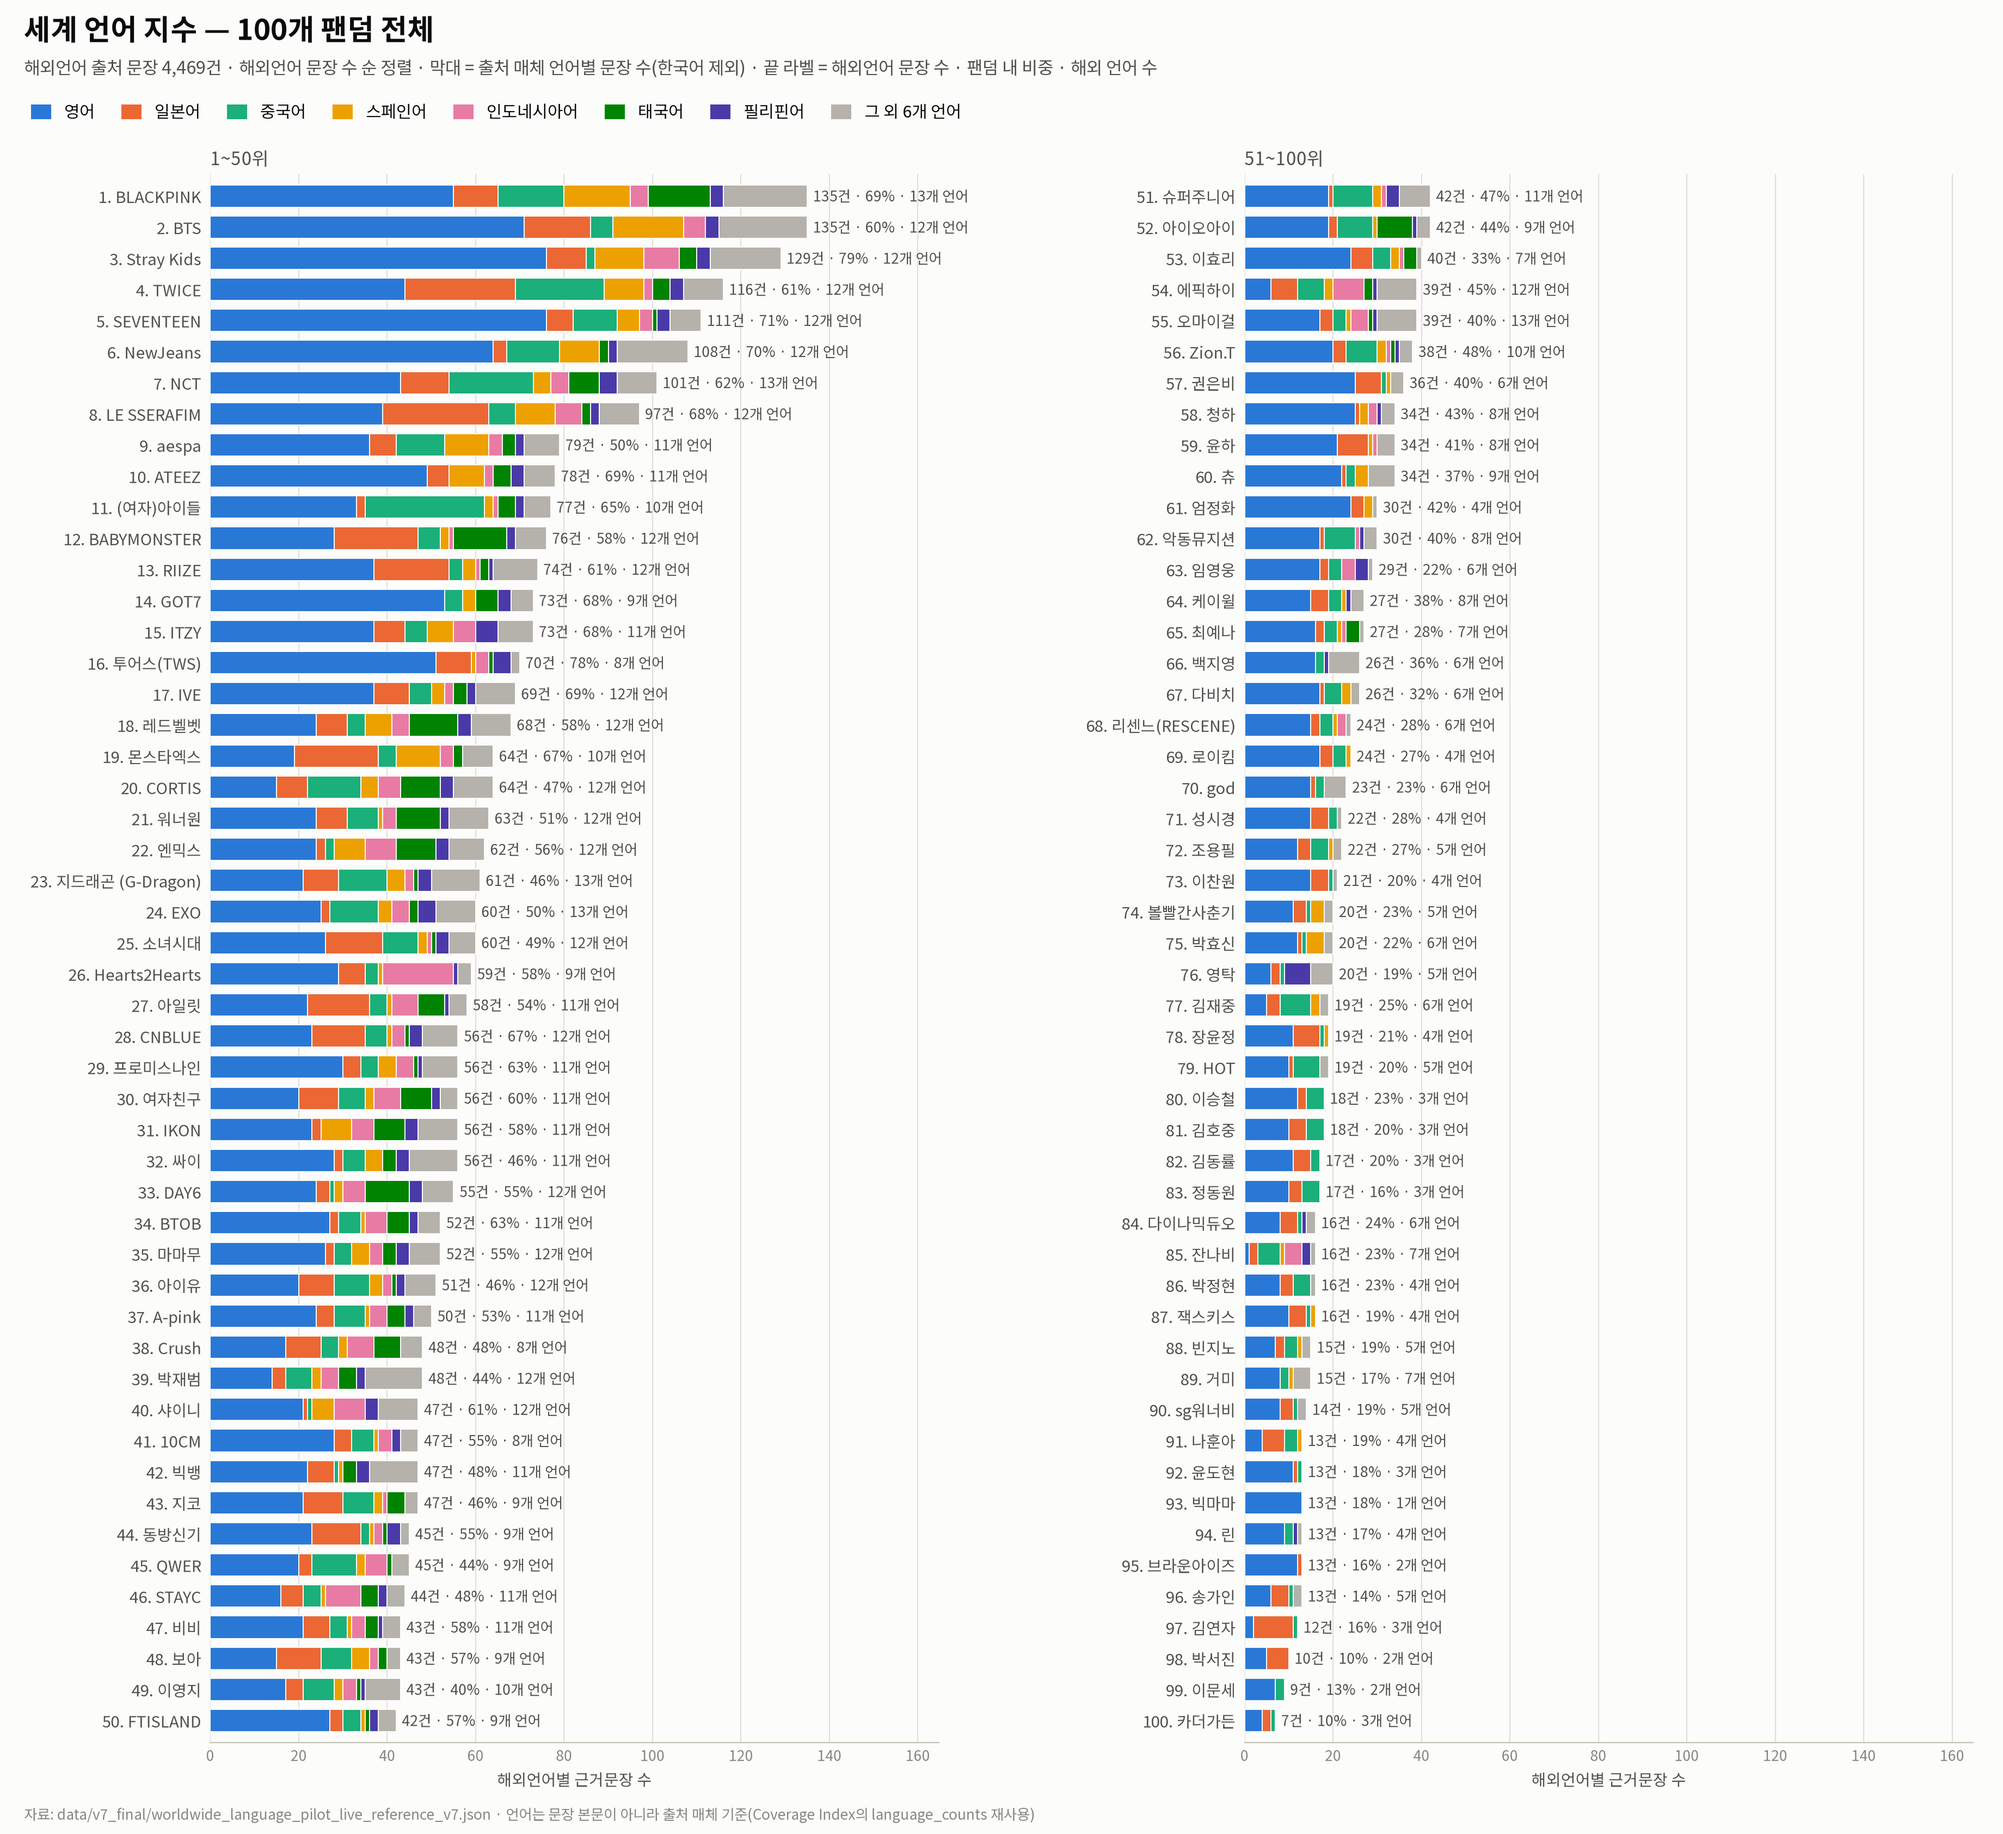
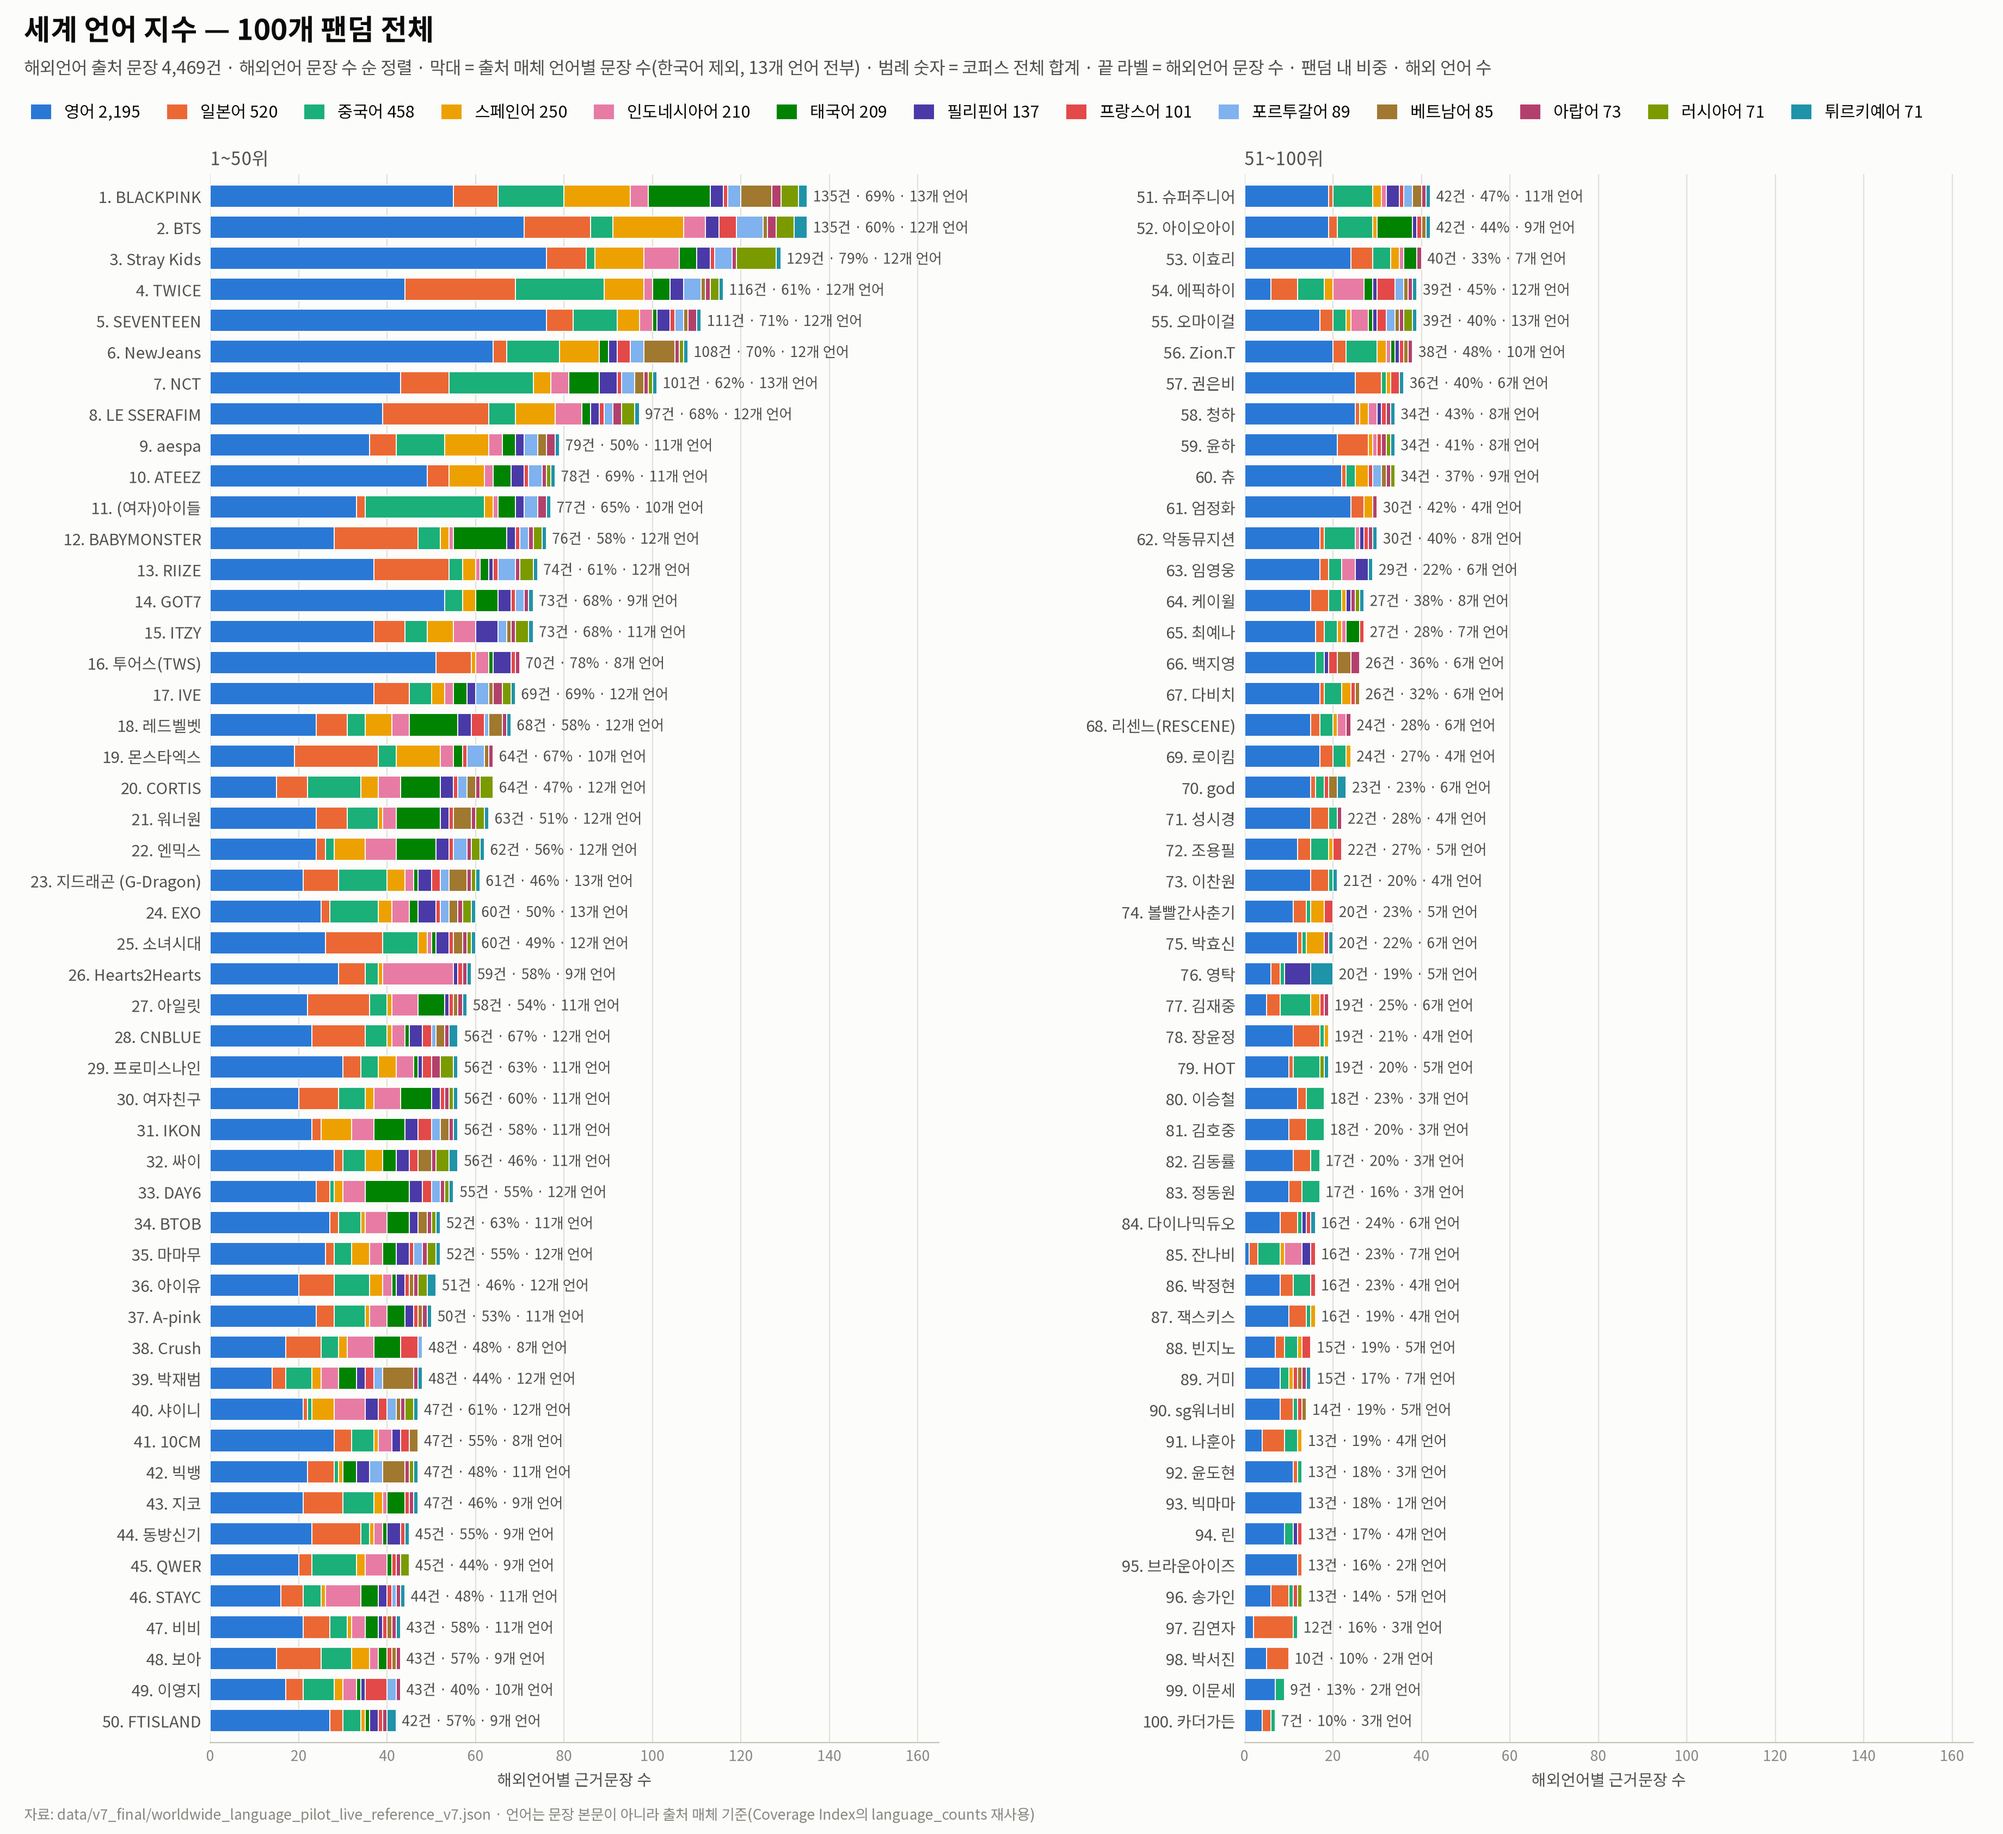
세계 언어 지수 100개 팬덤 그래프: 해외언어 13개 전부 개별 색·라벨로 표시(그룹화 없음)
범주형 8색 + 추가 5색을 인접쌍 색각이상·명도 검증을 통과하는 순서로 배치, 범례에 언어별 코퍼스 합계 표기.

Claude-Session: https://claude.ai/code/session_01VWuqhk8UFpTen2BecLssSX

diff --git a/v7_final_10020/charts/build_aux_indices_100_v7.py b/v7_final_10020/charts/build_aux_indices_100_v7.py
@@ -8,7 +8,7 @@ README 6절의 그림은 상위 20·25개만 보여 주므로, 같은 지표를 
   aux4_media_crossover_100.png      매체 크로스오버 지수 — 서로 다른 뉴스 매체 수
   aux5_domestic_regional_100.png    국내 지역 지수 — 17개 시/도 전부(권역별 색 계열) 누적 막대
   aux6_member_mci_45.png            멤버 집중도(MCI) — 45개 그룹, 구조적 하한 1/멤버수 표시
-  aux7_worldwide_language_100.png   세계 언어 지수 — 해외언어 구성(상위 7개 언어 + 그 외) 누적 막대
+  aux7_worldwide_language_100.png   세계 언어 지수 — 해외언어 13개 전부 누적 막대
 
 색: 범주형 7색(고정 순서, 명도·색각이상 검증 통과) + '그 외'는 중립 회색. 팬덤 100개는 1~50위 / 51~100위 두 패널로 나누고 x축 범위를 공유한다.
 한글 폰트: KFONT_PATH(본문)·KFONT_BOLD_PATH(제목) 환경변수 → 없으면 시스템 후보(Noto Sans KR/CJK, 맑은 고딕, 나눔고딕 등).
@@ -298,17 +298,17 @@ for v in ww.values():
     for k, c in v["language_mention_counts"].items():
         if k != "ko":
             ltot[k] = ltot.get(k, 0) + c
-lang7 = top_keys(ltot)
+lang_all = top_keys(ltot, len(ltot))   # 해외언어 13개 전부, 전체 합계 순
+# 범주형 8색(고정 순서) 뒤에 서로 구분되는 5색을 이어 붙인다 — 그룹화 없이 언어마다 고유 색
+LANG_COLORS = SERIES + [SERIES8, "#7fb2ee", "#a0782f", "#b3406c", "#7a9a00", "#1f93a8"]   # 13색 인접쌍 검증 통과(validate_palette.js)
 rows = []
 for name, v in ww.items():
     lc = v["language_mention_counts"]
-    d = {k: lc.get(k, 0) for k in lang7}
-    d["_other"] = sum(c for k, c in lc.items() if k not in lang7 and k != "ko")
-    rows.append((name, d, (v["foreign_bullets"], v["foreign_ratio"], v["n_foreign_languages_hit"])))
+    rows.append((name, {k: lc.get(k, 0) for k in lang_all}, (v["foreign_bullets"], v["foreign_ratio"], v["n_foreign_languages_hit"])))
 rows.sort(key=lambda r: (-r[2][0], -r[2][1], r[0]))
-stacked_100(rows, lang7 + ["_other"], SERIES + [OTHER], [LANG[k] for k in lang7] + ["그 외 6개 언어"],
+stacked_100(rows, lang_all, LANG_COLORS[:len(lang_all)], [f"{LANG[k]} {ltot[k]:,}" for k in lang_all],
             lambda r: f"{r[2][0]}건 · {r[2][1] * 100:.0f}% · {r[2][2]}개 언어",
             "세계 언어 지수 — 100개 팬덤 전체",
-            f"해외언어 출처 문장 {sum(ltot.values()):,}건 · 해외언어 문장 수 순 정렬 · 막대 = 출처 매체 언어별 문장 수(한국어 제외) · 끝 라벨 = 해외언어 문장 수 · 팬덤 내 비중 · 해외 언어 수",
+            f"해외언어 출처 문장 {sum(ltot.values()):,}건 · 해외언어 문장 수 순 정렬 · 막대 = 출처 매체 언어별 문장 수(한국어 제외, 13개 언어 전부) · 범례 숫자 = 코퍼스 전체 합계 · 끝 라벨 = 해외언어 문장 수 · 팬덤 내 비중 · 해외 언어 수",
             "해외언어별 근거문장 수", "자료: data/v7_final/worldwide_language_pilot_live_reference_v7.json · 언어는 문장 본문이 아니라 출처 매체 기준(Coverage Index의 language_counts 재사용)",
-            "aux7_worldwide_language_100.png")
+            "aux7_worldwide_language_100.png", ncol=len(lang_all))
